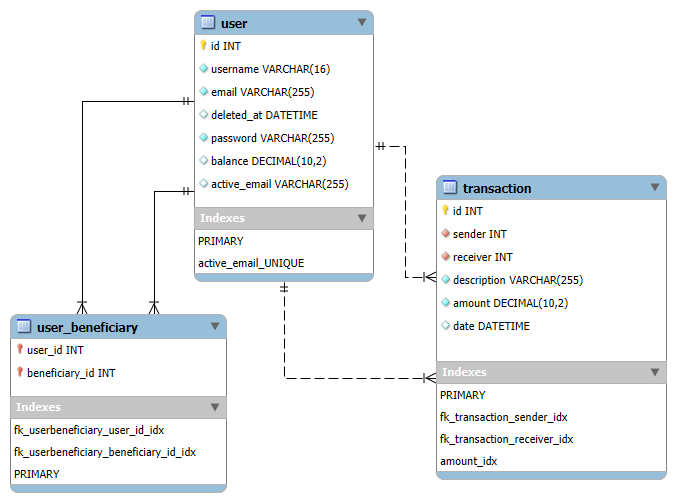
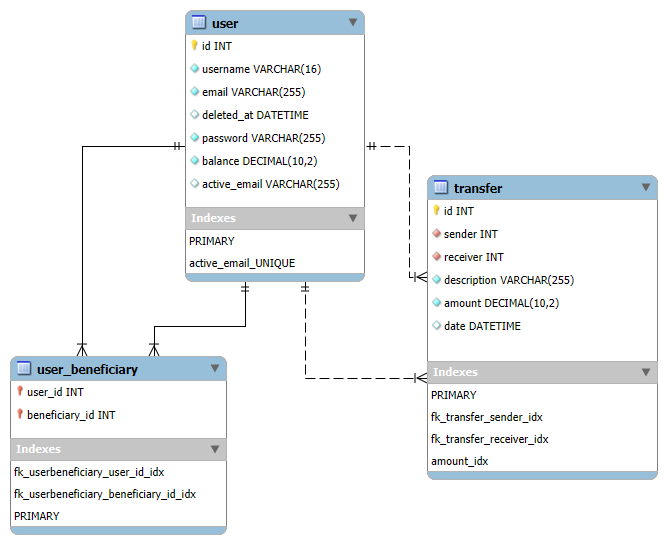
chore: update README and MPD screenshot
Add instructions for:
 - database creation,
 - data initialization,
 - app start-up.

 Rephrase table descriptions.
 Rename table `transaction` to `transfer` in README file and in MPD.

diff --git a/README.md b/README.md
@@ -7,7 +7,7 @@ Prototype d'une application de transfert d'argent entre utilisateurs.
 Les utilisateurs doivent pouvoir :
  - s'inscrire à l'aide d'un identifiant e-mail unique,
  - se connecter avec leurs identifiants personnels,
- - ajouter des amis à leur réseau pour leur transférer de l'argent. 
+ - ajouter d'autres utilisateurs à leur bénéficiaires pour leur transférer de l'argent. 
 
 ## Modèle Physique de Données
 
@@ -23,27 +23,63 @@ Le diagramme EER ci-dessous décrit la structure des tables et les relations ent
 *password* : mot de passe,<br>
 *balance* : solde du compte en euros (ne peut pas être négatif),<br>
 *deleted_at* : date de suppression du compte (soft-delete),<br>
-*active_email* : colonne générée pour contenir l'adresse e-mail d'un l'utilisateur actif. Si le compte de l'utilisateur a été supprimé, un nouveau compte avec la même adresse e-mail peut être créé.<br>
+*active_email* : colonne générée pour contenir l'adresse e-mail d'un utilisateur actif. Si le compte de l'utilisateur a été supprimé, un nouveau compte avec la même adresse e-mail peut être créé.<br>
 
-Le champ `active_email` permet de conserver l'unicité de l'adresse e-mail uniquement parmi les comptes utilisateurs actifs (non supprimés).   
+**Le champ `active_email` permet de conserver l'unicité de l'adresse e-mail uniquement parmi les comptes utilisateurs actifs** (non supprimés).   
    
-- **transfer** : enregistre les transactions entre utilisateurs.<br>  
+- **transfer** : enregistre les transferts entre utilisateurs.<br>  
 *id* : identifiant unique de la transaction,<br>
 *sender* : identifiant de l'utilisateur qui envoie de l'argent,<br>
 *receiver* : identifiant de l'utilisateur qui reçoit de l'argent,<br>
 *description* : description de la transaction qui permet de renseigner un motif,
 *amount* : montant de la transaction.<br>
   
-Les transactions sont liées aux utilisateurs via les clés étrangères `sender` et `receiver` qui font référence à `user.id`.
+Les transferts sont liés aux utilisateurs via les clés étrangères `sender` et `receiver` qui font référence à `user.id`. 
+Un index sur `amount` permet d'accélérer les recherches, notamment lors de filtres ou tris par montant.
    
 - **user_beneficiary** : gère les relations entre utilisateurs.<br>  
 *user_id* : identifiant de l'utilisateur qui a ajouté un bénéficiaire,<br>
 *beneficiary_id* : identifiant de l'utilisateur ajouté aux bénéficiaires (la réciprocité n'est pas obligatoire).<br>
    
-Les connexions entre utilisateurs sont gérées via les clés étrangères `user_id` et `beneficiary_id` qui font référence à `user.id`.
+Les relations entre utilisateurs sont gérées via les clés étrangères `user_id` et `beneficiary_id` qui font toutes deux référence à `user.id`.<br>
+La table `user_beneficiary` contient ainsi uniquement des associations entre identifiants d'utilisateurs.<br>
+**Chaque couple (user_id, beneficiary_id) est unique** : un même bénéficiaire ne peut pas être ajouté plusieurs fois par le même utilisateur.<br>
 
 ### Schéma de la base de données et données initiales
 
 [Le schéma](src/main/resources/schema.sql), conçu pour être utilisé avec MySQL, contient non seulement la définition complète des tables et des relations (clés primaires, clés étrangères, contraintes), mais aussi un **jeu de données initial**.  
 Ces données permettent de comprendre le modèle en contexte réel et de tester rapidement le fonctionnement de l'application sans avoir à insérer manuellement des enregistrements. 
 
+La base de données doit être créée avant le démarrage de l'application. 
+
+### Création de la base de données
+
+Dans un terminal, se connecter à MySQL avec la commande <code>mysql -u root -p</code>, puis saisir le mot de passe.<br>
+Une fois connecté, créer la base de données avec la commande <code>CREATE DATABASE paymybuddy;</code>
+
+### Démarrage de l'application
+
+Créer un profil local en dupliquant le contenu du fichier [application.properties](src/main/resources/application.properties) dans un fichier application-local.properties. 
+
+Renseigner les informations de connexion à la base de données locale dans le fichier applications-local.properties. Ce fichier ne doit pas être commité dans le dépôt.
+
+#### Depuis un terminal
+
+Démarrer l'application avec <code>./mvnw spring-boot:run</code>
+
+#### Depuis un IDE
+ - **Eclipse** / **STS**
+
+Importer le projet.  
+Run As -> Spring Boot App.
+
+ - **Visual Studio Code**
+
+Installer les extensions "Spring Boot Extension Pack" et "Java Extension Pack" si nécessaire.   
+Ouvrir le projet dans VS Code.  
+Lancer l'application depuis le Spring Boot Dashboard : Run. 
+
+ - **IntelliJ IDEA**
+
+Ouvrir le projet en tant que Maven project.  
+Depuis la classe PayMyBuddyApiApplication : Run. 
